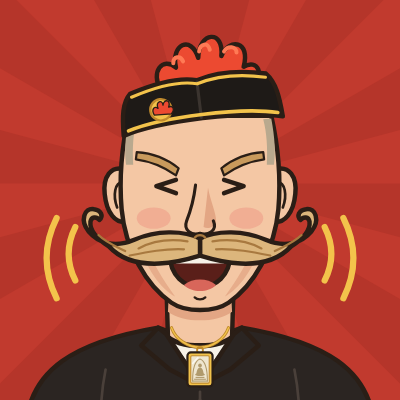
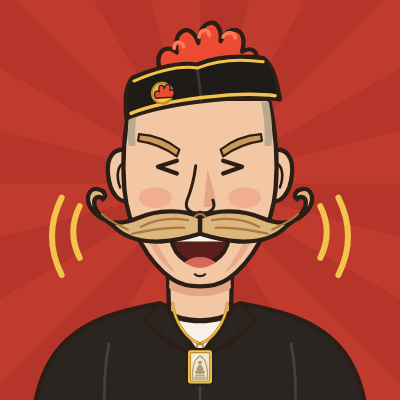
The somdej hangs to the breastbone
Long chain, pendant mid-chest at the length a crucifix is worn. The
figure moves up and eases from 1.14 to 1.10 so the pendant and the comb
both stay inside the round crop; HANG/HANG_S are constants the test
reads.

Claude-Session: https://claude.ai/code/session_01JFezkyuZkike4PLAT6MXEq

diff --git a/make_cast.py b/make_cast.py
@@ -24,7 +24,7 @@ correctly by definition (same reason as make_og_cards.py).
 The palette is the site's: --ant #c13a2e behind him (it is also the red of the
 portraits he was drawn from), --ink #2a1e16 for every line, --gold for the
 piping. No emblem of any organisation is drawn on the cap; the pin is a comb.
-At his throat, the พระสมเด็จ he wears, in a gold case on a gold chain.
+On his chest, the พระสมเด็จ he wears, in a gold case on a long gold chain.
 """
 import argparse
 import shutil
@@ -66,9 +66,11 @@ SHIRT = "#2b2522"
 TEE = "#f7f2e8"
 LENS = "#3a2f28"
 
-# where the avatar hangs the character: raised so the amulet at his throat
-# stays inside the round crop
-CHAR_Y, CHAR_S = 490, 1.14
+# where the avatar hangs the character: raised and eased back so the amulet
+# on his chest stays inside the round crop and the comb still clears the top
+CHAR_Y, CHAR_S = 440, 1.10
+
+HANG, HANG_S = 900, .9  # the amulet's bail, in character units, and its size
 
 W = 10  # the one line weight; the bug scales it, nothing else changes it
 
@@ -108,8 +110,8 @@ def _polar(deg, r=1100, cx=512, cy=470):
 def shoulders():
     return (
         # shirt
-        f'<path d="M120 1030 C130 900 230 838 418 806 L512 842 L606 806 '
-        f'C794 838 894 900 904 1030 Z" fill="{SHIRT}" stroke="{INK}" stroke-width="{W}" '
+        f'<path d="M120 1110 C130 900 230 838 418 806 L512 842 L606 806 '
+        f'C794 838 894 900 904 1110 Z" fill="{SHIRT}" stroke="{INK}" stroke-width="{W}" '
         f'stroke-linejoin="round"/>'
         # neck
         f'<path d="M436 690 L440 826 C470 852 554 852 584 826 L588 690 Z" '
@@ -124,24 +126,25 @@ def shoulders():
         f'<path d="M606 806 L644 846 L580 900 L512 936 L588 820 Z" fill="{SHIRT}" '
         f'stroke="{INK}" stroke-width="{W}" stroke-linejoin="round"/>'
         f'<g stroke="#4a403a" stroke-width="6" fill="none" stroke-linecap="round">'
-        f'<path d="M512 950 L512 1030"/><path d="M300 900 C290 950 288 990 290 1030"/>'
-        f'<path d="M724 900 C734 950 736 990 734 1030"/></g>'
+        f'<path d="M512 950 L512 1110"/><path d="M300 900 C290 950 288 990 290 1110"/>'
+        f'<path d="M724 900 C734 950 736 990 734 1110"/></g>'
         f'<circle cx="512" cy="975" r="8" fill="#4a403a"/>'
     )
 
 
 def amulet():
     """พระสมเด็จ on a gold chain: a powder tablet in a gold case, the seated
-    Buddha under the bell arch on a three-tier base. At the throat, where he
-    wears it; it sits inside the round crop (tests/test_cast.py)."""
-    chain = 'M448 806 C458 834 486 850 512 850'
+    Buddha under the bell arch on a three-tier base. On the chest, at the
+    length a crucifix hangs; it sits inside the round crop (tests/test_cast.py)."""
+    # hangs to the breastbone, the length a crucifix is worn at
+    chain = f'M448 806 C454 850 480 {HANG - 10} 512 {HANG}'
     tablet = "#efe6cf"
     relief = "#b09a6c"
     return (
         mirror(chain, "none", stroke=GOLD_DEEP, sw=7)
         + mirror(chain, "none", stroke=GOLD, sw=3)
-        # the pendant is drawn at full size and hung at 0.83 from the chain's foot
-        + '<g transform="translate(512 850) scale(.83) translate(-512 -856)">'
+        # the pendant is drawn at full size and hung at HANG_S from the chain's foot
+        + f'<g transform="translate(512 {HANG}) scale({HANG_S}) translate(-512 -856)">'
         + f'<circle cx="512" cy="864" r="8" fill="none" stroke="{GOLD_DEEP}" stroke-width="5"/>'
         + f'<rect x="478" y="870" width="68" height="92" rx="9" fill="{GOLD}" '
           f'stroke="{INK}" stroke-width="6"/>'

diff --git a/tests/test_cast.py b/tests/test_cast.py
@@ -37,7 +37,7 @@ def main():
     # comb top (100 + its 36 px drop), mustache tips (782 and its mirror, 546)
     for label, (x, y) in {"comb top": (512, 136), "right tip": (782, 546),
                           "left tip": (242, 546),
-                          "amulet foot": (512, 850 + .83 * (962 - 856))}.items():
+                          "amulet foot": (512, make_cast.HANG + make_cast.HANG_S * (962 - 856))}.items():
         px, py = placed(x, y)
         r = math.hypot(px - 512, py - 512)
         if r > 500:
